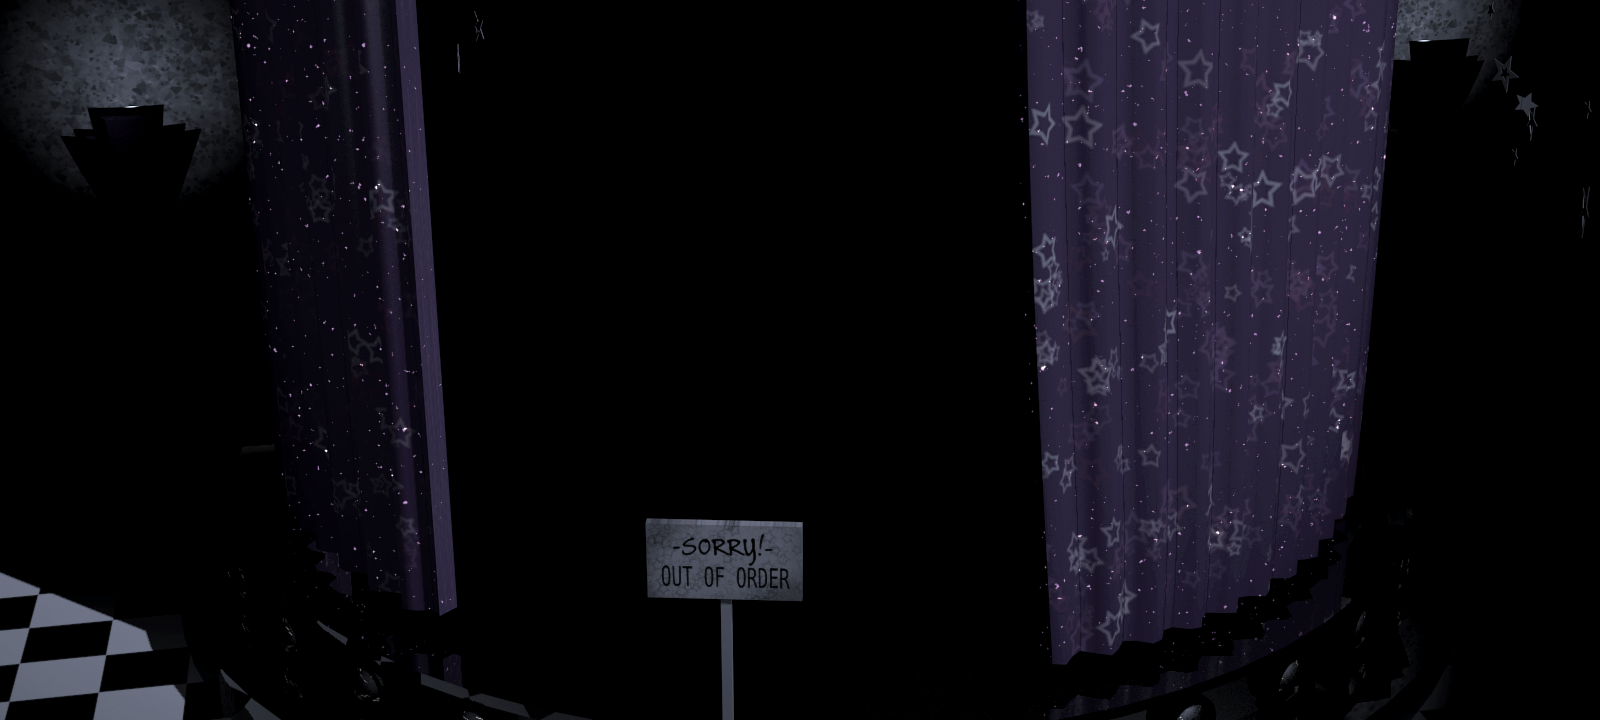
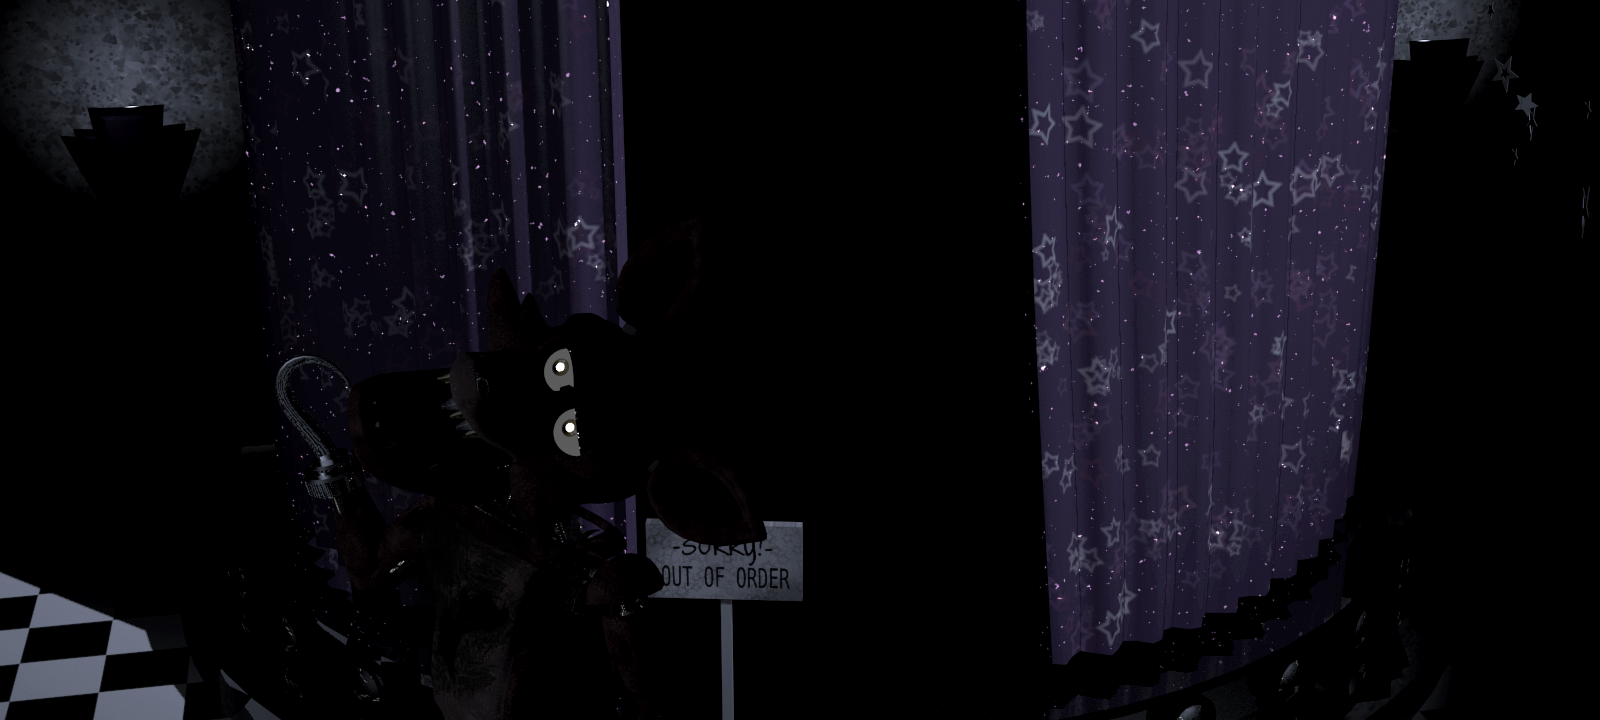
disable move in office when jumpscare

diff --git a/Assets/Scripts/ChangeImages.cs b/Assets/Scripts/ChangeImages.cs
@@ -9,13 +9,11 @@ public class ChangeImages : MonoBehaviour
     public float FoxyAnimationTimer = 0.50f;
     public GameObject KitckenAudioOnly;
     public float WhichCamera = 1;
-    public GameObject WichCameraShower;
     public GameObject cameraScreen;
-    public GameObject CanvasGameOver;
-    public GameObject GameOverScript;
 
     public I18nTextTranslator i18nTextTranslator;
     private ControllersRumble controllersRumble;
+    private MoveInOffice moveInOffice;
 
     // -----------DiningArea var----------
 
@@ -84,9 +82,9 @@ public class ChangeImages : MonoBehaviour
     public double RandCamNoise;
     public bool noiseIsPlaying;
 
+    public float WhereFreddy = 1;
     public float WhereBonnie = 1;
     public float WhereChica = 1;
-    public float WhereFreddy = 1;
     public float WhereFoxy = 1;
 
     public int GoldenFreddyChance;
@@ -149,6 +147,7 @@ public class ChangeImages : MonoBehaviour
     {
         foxyAnimator = FoxyRunDownHall.GetComponent<Animator>();
         controllersRumble = FindObjectOfType<ControllersRumble>();
+        moveInOffice = FindObjectOfType<MoveInOffice>();
         
         GoldenFreddyJumpscareTime = 10f;
         GoldenFreddyOffice.SetActive(false);
@@ -179,7 +178,7 @@ public class ChangeImages : MonoBehaviour
                 GoldenFreddyJumpscareTime -= Time.deltaTime;
                 if(GoldenFreddyJumpscareTime <= 6f)
                 {
-                    SceneManager.LoadScene("GOLDENFREDDYCRASHCONSOLE");
+                    Application.Quit();
                 }
             }
         }
@@ -835,6 +834,11 @@ public class ChangeImages : MonoBehaviour
 
         if (isBeingJumpscared)
         {
+            if (moveInOffice.canMove)
+            {
+                moveInOffice.canMove = false;
+            }
+
             WaitJumpscare -= Time.deltaTime;
 
             if (WaitJumpscare <= 0)

diff --git a/Assets/Scripts/Power.cs b/Assets/Scripts/Power.cs
@@ -16,11 +16,14 @@ public class Power : MonoBehaviour {
     public float JumpscarePlayTime = 0.2f;
 
     private ControllersRumble controllersRumble;
+    private MoveInOffice moveInOffice;
 
     void Start()
     {
         Blink.SetActive(false);
+
         controllersRumble = FindObjectOfType<ControllersRumble>();
+        moveInOffice = FindObjectOfType<MoveInOffice>();
 
         // Assign PlayTime a random value between 15 and 28 seconds
         PlayTime = Random.Range(15f, 28f);
@@ -52,6 +55,8 @@ public class Power : MonoBehaviour {
 
                 if (DarkTime <= 0)
                 {
+                    moveInOffice.canMove = false;
+
                     freddyJumpScare.SetActive(true);
                     PlayTime = 0;
                     JumpscarePlayTime -= Time.deltaTime;

diff --git a/Assets/Scripts/MoveInOffice.cs b/Assets/Scripts/MoveInOffice.cs
@@ -5,7 +5,10 @@ public class MoveInOffice : MonoBehaviour
 {
     public GameObject OfficeContainer;
     private RectTransform officeRect;
+
+    [HideInInspector]
     public bool camIsUp = false;
+    public bool canMove = true;
 
     WiiU.GamePad gamePad;
     WiiU.Remote remote;
@@ -153,7 +156,7 @@ public class MoveInOffice : MonoBehaviour
 
     private void MoveLeft()
     {
-        if (!camIsUp)
+        if (!camIsUp && canMove)
         {
             OfficeContainer.transform.Translate(Vector3.right * speed * Time.deltaTime);
 
@@ -166,7 +169,7 @@ public class MoveInOffice : MonoBehaviour
 
     private void MoveRight()
     {
-        if (!camIsUp)
+        if (!camIsUp && canMove)
         {
             OfficeContainer.transform.Translate(Vector3.left * speed * Time.deltaTime);
 
